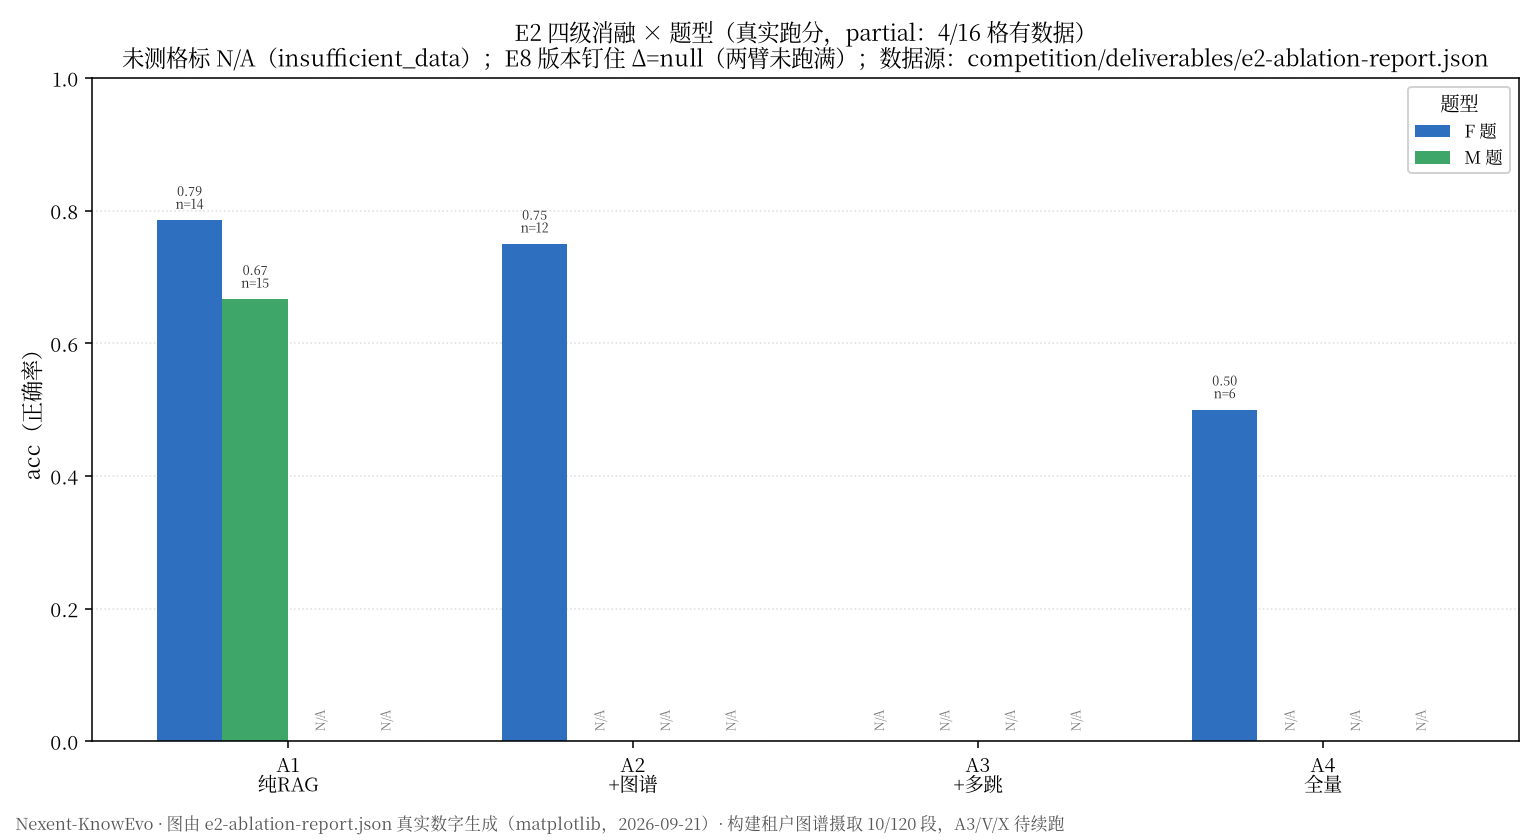
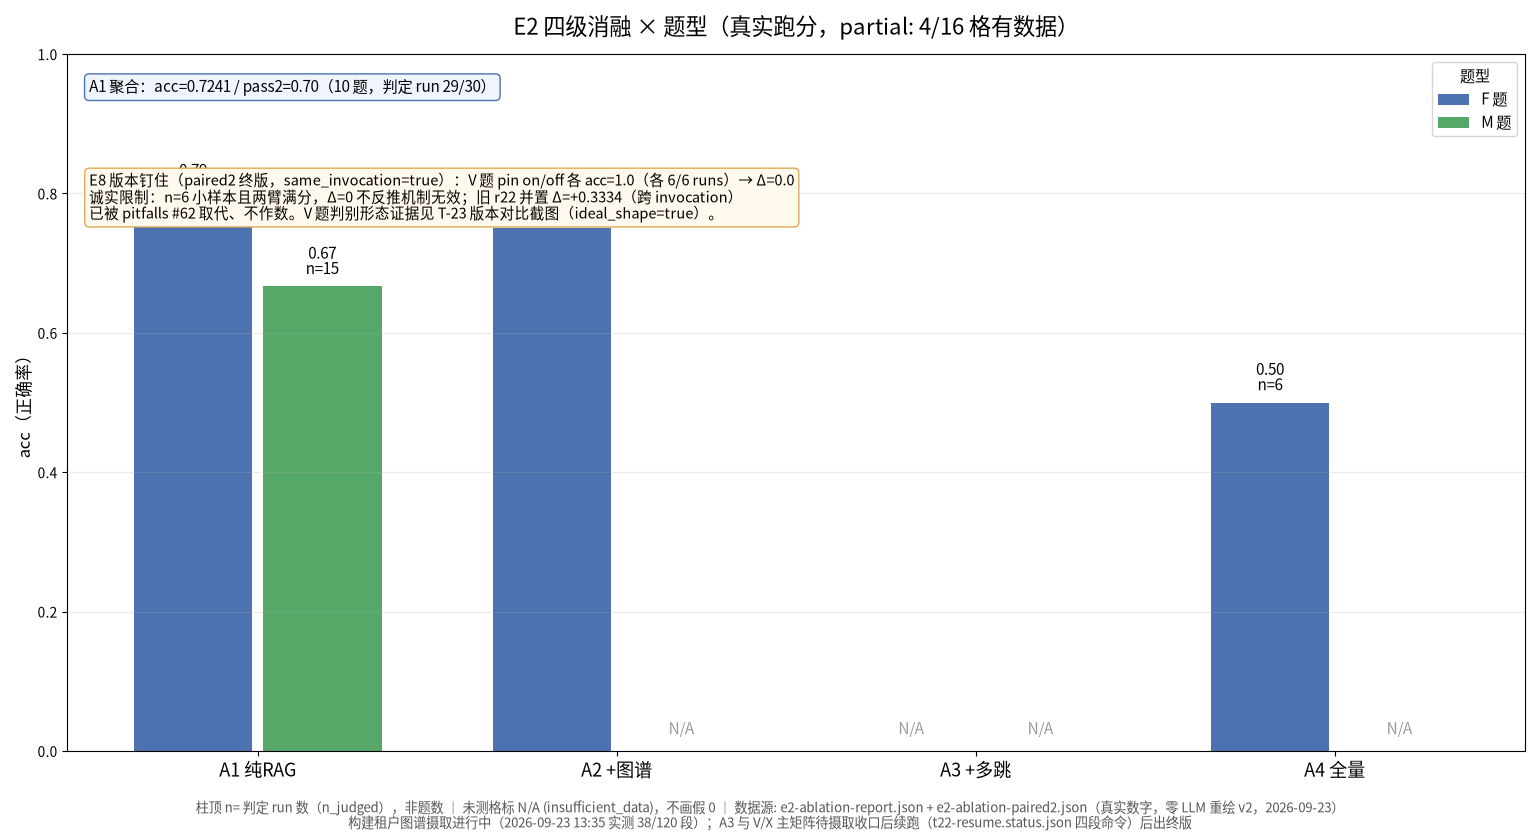
📊 docs(eval图/P1-5): t23-eval-report v2 零 LLM 重绘（审图 §13 三处口径修正）
- E8 标注改用 paired2 终版 Δ=0.0（same_invocation=true，含诚实限制句，旧 Δ=+0.3334 按 #62 不作数）；补 A1 聚合 acc=0.7241/pass2=0.70；n= 注明判定 run 数
- 生成器仓外 ~/kw-plot/plot_e2_report.py（沿 docx 生成器先例）；12 格 N/A 不画假 0
- p15 进度：13:35 真库 38/120 段、实体 325 / 关系 249 / 证据 62
- 视觉验收（visual-judge）进行中，结果回填 evidence-index

Changed region(s): [[0.0, 0.1857, 0.9974, 0.9905], [0.0312, 0.0, 0.9974, 0.2167], [0.0, 0.4333, 0.0312, 0.5571]]

diff --git a/competition/deliverables/evidence-index.md b/competition/deliverables/evidence-index.md
@@ -21,7 +21,7 @@
 | **决策卡截图（证据链展开 + 版本戳 + 免责声明）** | 维度2 | ★★★ | `deliverables/T-23-decision-card.png`（2026-09-21 16:09 UTC；**真实页面** `/zh/decisionCard` + 真库行 `decision_card_t.id=284ff0c1-a3bb-450c-8069-e1bb60512d4b`；问题「糖尿病前期」/本体 v1.1.0；含导航+永久免责声明+`建议`/`知识版本:v1.1.0`/`截止 2025-01-01T00:00:00+00:00`/`时钟 fact_cutoff`/`version_pinned` 戳 + Top-1 候选(置信度0.80) + 展开证据链(EXTRACTED/版本钉住/kg_path)） | ✅ 已有 |
 | **新旧指南版本对比（同题两版答案不同）** | 维度2/3 | ★★★ | ① 糖尿病前期：`deliverables/T-23-version-compare-2024clock-refusal.png` / `T-23-version-compare-2026.png`（2026-09-21 16:14 UTC；同题+同本体 v1.1.0，`as_of=2024-01-01`→`证据不足`(版本钉住的诚实拒绝, 0候选, card `3fd88441`) vs `as_of=2026-01-01`→`建议`(1候选+证据链, card `9189abf8`)；对比成立依据=一拒绝一建议）。② **糖化血红蛋白（probe 选出的 ideal-shape 判别对）**：`deliverables/T-23-version-compare-2021clock.png` / `T-23-version-compare-2025clock.png`（2026-09-22 04:23 UTC；同题「糖化血红蛋白的控制目标是多少？」+同本体 v1.1.0，仅 `as_of` 不同：`as_of=2021-06-01`→`INSUFFICIENT_EVIDENCE`(旧时钟 0 边 0 证据, card `9ed40a72-2c26-4f56-bac9-f3f6b1ab337c`) vs `as_of=2025-06-01`→`RECOMMEND`(1候选+3证据, card `109425c1-1f1a-482b-99bf-5528da6ef664`)；两版 `knowledge_stamp.clock_source=explicit`、`kg_cutoff` 分别为 2021-06-01/2025-06-01 且不同 → 判别门通过；`ideal_shape=true`=旧时钟版本钉住的诚实拒绝 + 新时钟证据支撑答案）= 真实双时态版本分化 | ✅ 已有 |
 | **Skill 模板库页面截图** | 维度4 | ★★☆ | `deliverables/t23-shot-skill-template.png`（2026-09-21 04:03；**真实页面**：skill_template_t 落库模板） | ✅ 已有 |
-| **评测报告图（消融柱状图/曲线）** | 维度3 | ★★★ | `deliverables/t23-eval-report.png`（2026-09-21 11:54；由 `e2-ablation-report.json` 真实数字绘制，matplotlib；insufficient_data 格明确标注）。⚠ **2026-09-23 审图判定必须重绘**：副标题 E8 `Δ=null` 与权威 `e2-ablation-paired2.json` 的 `Δ=0.0` 冲突、缺 A1 聚合 acc=0.7241/pass2=0.70、`n=` 语义待注明；E2 全量回填后一并重绘 | 🟡 重绘欠账 |
+| **评测报告图（消融柱状图/曲线）** | 维度3 | ★★★ | `deliverables/t23-eval-report.png`（**v2 重绘 2026-09-23 13:40**，零 LLM；生成器仓外 `~/kw-plot/plot_e2_report.py`）。审图 §13 三处修正已落：E8 标注改用 paired2 终版 **Δ=0.0**（含诚实限制句 + 旧 Δ=+0.3334 不作数）、补 A1 聚合 acc=0.7241/pass2=0.70、`n=` 注明为判定 run 数；数据源双 JSON、12 格 N/A 不画假 0。E2 全量回填后出终版 | ✅ 口径修正版（终版待 E2 全量） |
 | E1 纯 RAG 基线（acc=0.6667 / pass2=0.65 / n_judged=60/60） | 维度3（对照） | ★★★ | `deliverables/e1-baseline-report.json`；权威口径 = `docs/cost-ledger.md` 行 `e1-b64faa90-64ac-44bc-95e9-564ad4b99006` | ✅ 已有 |
 | E2 消融报告（A1/A2/A3/A4 × E8） | 维度3 | ★★★ | `deliverables/e2-ablation-report.json`（**partial:true**）：**A1_pure_rag** n_q=10 acc=0.7241 / pass2=0.70 / n_judged=29/30；**A2_graph** n_q=4 acc=0.75 / n_judged=12/12；**A3_multihop 待跑**（insufficient_data）；**E8 配对终版**（`e2-ablation-paired2.json`，`same_invocation=true`、零空正文污染）：V 题 3 题×2runs 两臂各 acc=1.0 n=6/6 → **Δ=0.0**（取代 r22 并置 +0.3334，pitfalls #62；诚实限制：n=6 小样本+两臂满分，Δ=0 不反推机制无效） | 🟡 待续跑 |
 | 机制预验证四探针（P1 100% vs 20.6% / P2 VOI / P3 0.02ms / P4 98.8%） | 维度3 | ★★★ | `deliverables/algorithm-probes/probe_p{1..4}_*.json` | ✅ 已有 |
